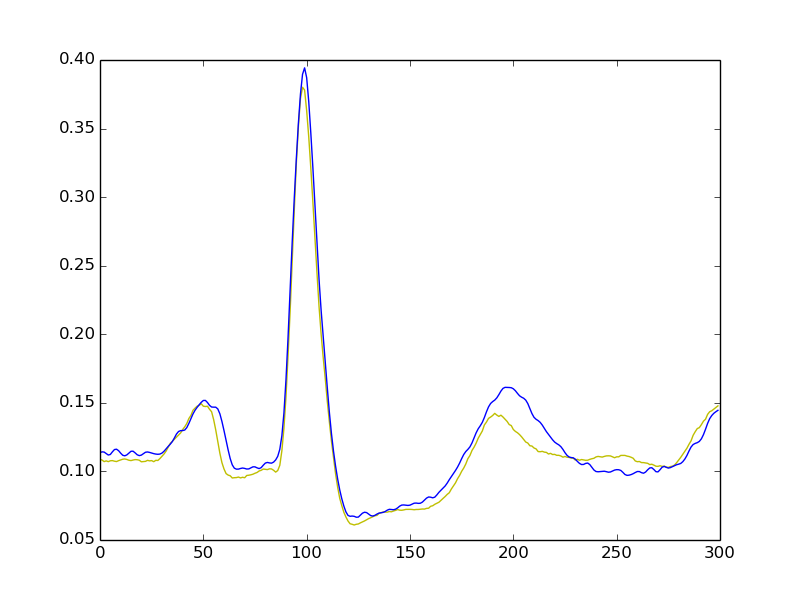
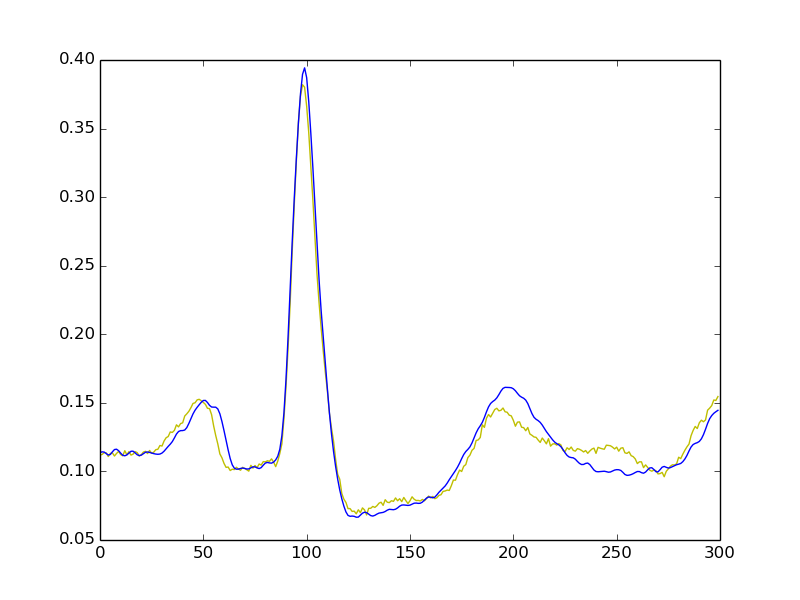
epochs 50 corruption 0.3

diff --git a/dA.py b/dA.py
@@ -262,7 +262,7 @@ class dA(object):
         return (cost, updates)
 
 
-def test_dA(learning_rate=0.3, training_epochs=1000,
+def test_dA(learning_rate=0.3, training_epochs=50,
             dataset='mnist.pkl.gz',
             batch_size=1, output_folder='dA_plots'):
 
@@ -331,7 +331,7 @@ def test_dA(learning_rate=0.3, training_epochs=1000,
     ) 
 
     cost, updates = da.get_cost_updates(
-        corruption_level=0.2,
+        corruption_level=0.3,
         learning_rate=learning_rate
     )
 
